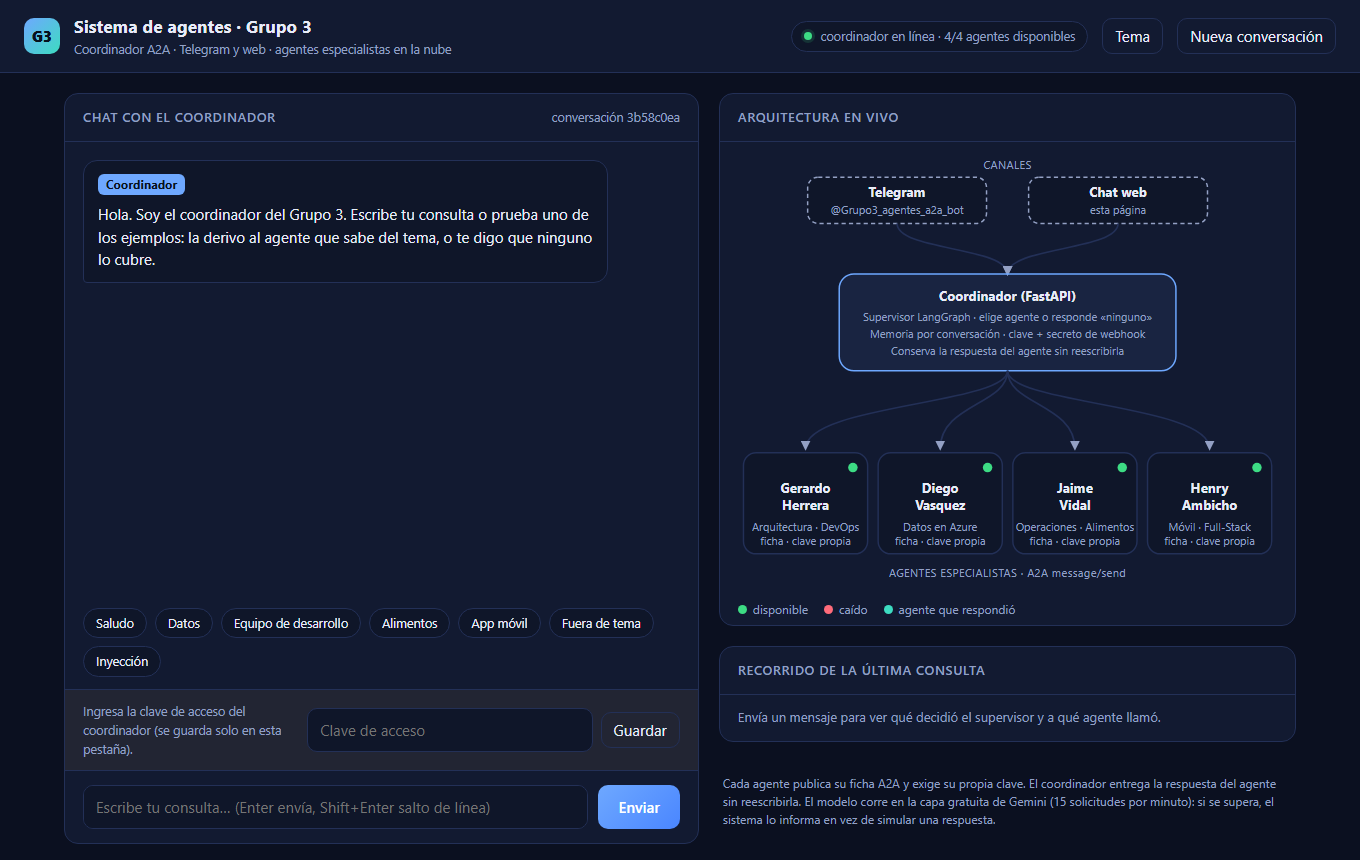
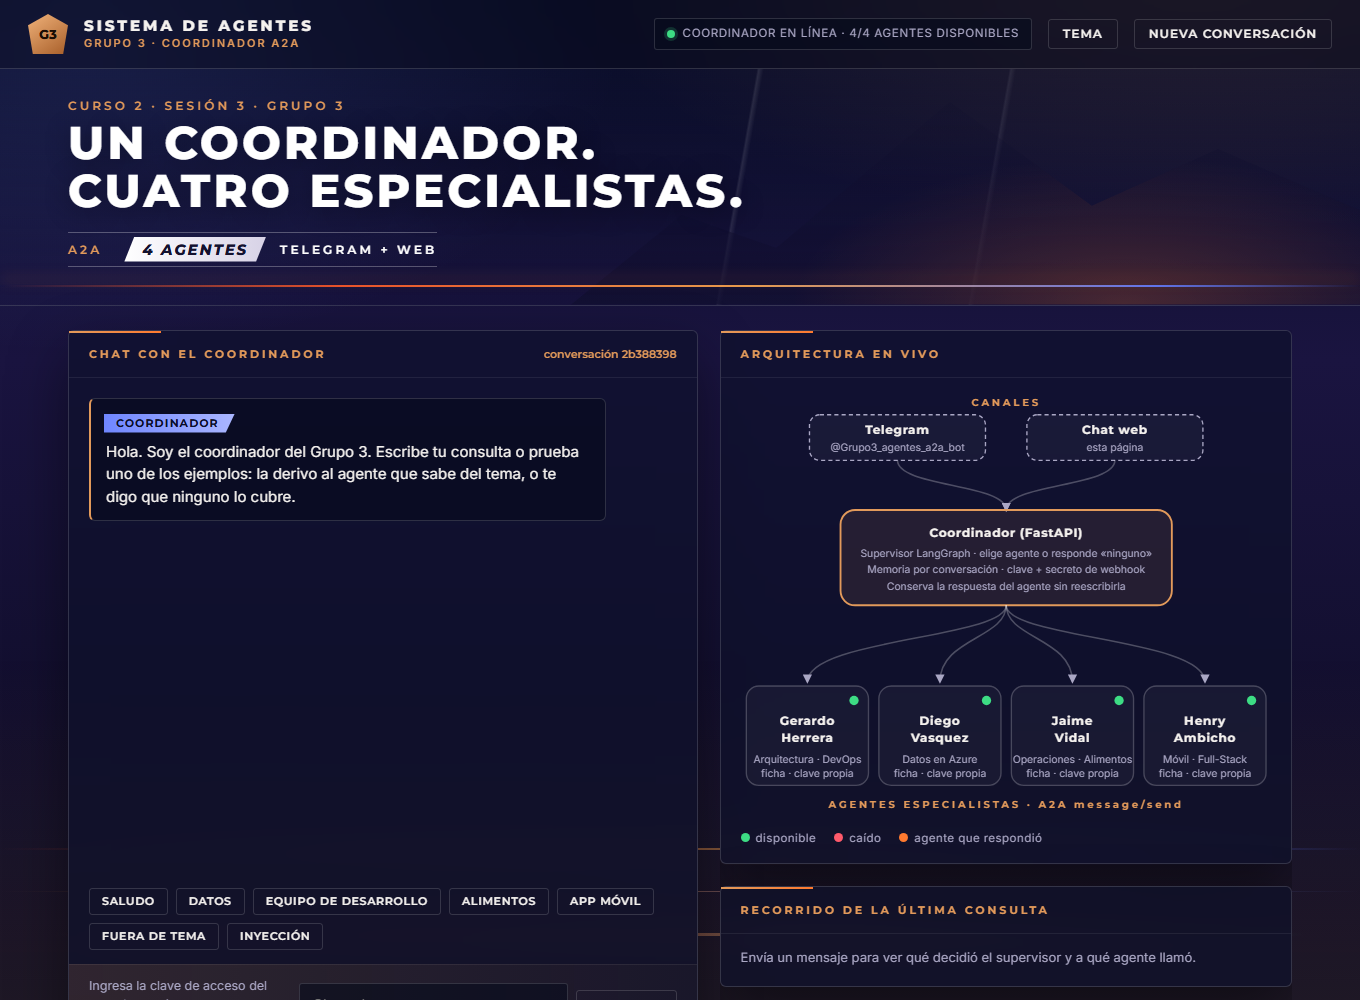
Portada compacta

diff --git a/coordinador/static/index.html b/coordinador/static/index.html
@@ -60,13 +60,13 @@
     background:linear-gradient(100deg,transparent 54%,rgba(255,255,255,.10) 54.15%,transparent 54.5%),linear-gradient(100deg,transparent 72%,rgba(255,255,255,.07) 72.15%,transparent 72.5%)}
   .hero::after{content:"";position:absolute;left:0;right:0;bottom:18px;height:2px;pointer-events:none;
     background:linear-gradient(90deg,transparent,rgba(255,90,40,.9) 25%,rgba(255,170,80,.9) 55%,rgba(100,125,255,.9) 85%,transparent);box-shadow:0 8px 0 -1px rgba(255,150,60,.5),0 -7px 14px rgba(255,120,50,.35)}
-  .hero-in{position:relative;max-width:1280px;margin:0 auto;padding:30px 28px 38px}
+  .hero-in{position:relative;max-width:1280px;margin:0 auto;padding:20px 28px 34px}
   .eyebrow{margin:0 0 6px;font:600 11.5px var(--head);letter-spacing:.3em;text-transform:uppercase;color:var(--accent)}
-  .hero h2{margin:0;font:800 clamp(26px,4.2vw,46px)/1.05 var(--head);letter-spacing:.07em;text-transform:uppercase;color:#fff;text-shadow:0 4px 24px rgba(0,0,0,.4)}
-  .ribbon{display:inline-flex;align-items:center;gap:14px;margin-top:16px;padding:4px 0;border-top:1px solid rgba(255,255,255,.28);border-bottom:1px solid rgba(255,255,255,.28);color:#fff;font:600 12px var(--head);letter-spacing:.26em;text-transform:uppercase}
+  .hero h2{margin:0;font:800 clamp(22px,3.2vw,38px)/1.1 var(--head);letter-spacing:.07em;text-transform:uppercase;color:#fff;text-shadow:0 4px 24px rgba(0,0,0,.4)}
+  .ribbon{display:inline-flex;align-items:center;gap:14px;margin-top:12px;padding:4px 0;border-top:1px solid rgba(255,255,255,.28);border-bottom:1px solid rgba(255,255,255,.28);color:#fff;font:600 12px var(--head);letter-spacing:.26em;text-transform:uppercase}
   .ribbon b{font:800 15px var(--head);letter-spacing:.12em;padding:3px 18px;background:linear-gradient(90deg,#fff,#d7d2e6);color:#14122e;clip-path:polygon(10px 0,100% 0,calc(100% - 10px) 100%,0 100%);font-style:italic}
   .ribbon em{font-style:normal;color:var(--accent);padding-right:8px}
-  main{display:grid;grid-template-columns:minmax(0,1.1fr) minmax(0,1fr);gap:22px;padding:24px 28px 30px;max-width:1280px;margin:0 auto;height:max(680px,calc(100vh - 150px))}
+  main{display:grid;grid-template-columns:minmax(0,1.1fr) minmax(0,1fr);gap:22px;padding:24px 28px 30px;max-width:1280px;margin:0 auto;height:max(640px,calc(100vh - 262px))}
   @media(max-width:980px){main{grid-template-columns:1fr;height:auto}}
   .card{background:var(--panel);backdrop-filter:blur(16px);border:1px solid var(--line);border-radius:6px;display:flex;flex-direction:column;min-height:0;box-shadow:var(--shadow);position:relative}
   .card::before{content:"";position:absolute;left:0;top:0;height:2px;width:92px;background:linear-gradient(90deg,var(--accent),var(--accent2))}
@@ -137,7 +137,7 @@
   <div class="mount"></div>
   <div class="hero-in">
     <p class="eyebrow">Curso 2 · Sesión 3 · Grupo 3</p>
-    <h2>Un coordinador.<br>Cuatro especialistas.</h2>
+    <h2>Un coordinador. Cuatro especialistas.</h2>
     <div class="ribbon"><em>A2A</em><b>4 AGENTES</b><span>Telegram + Web</span></div>
   </div>
 </section>
